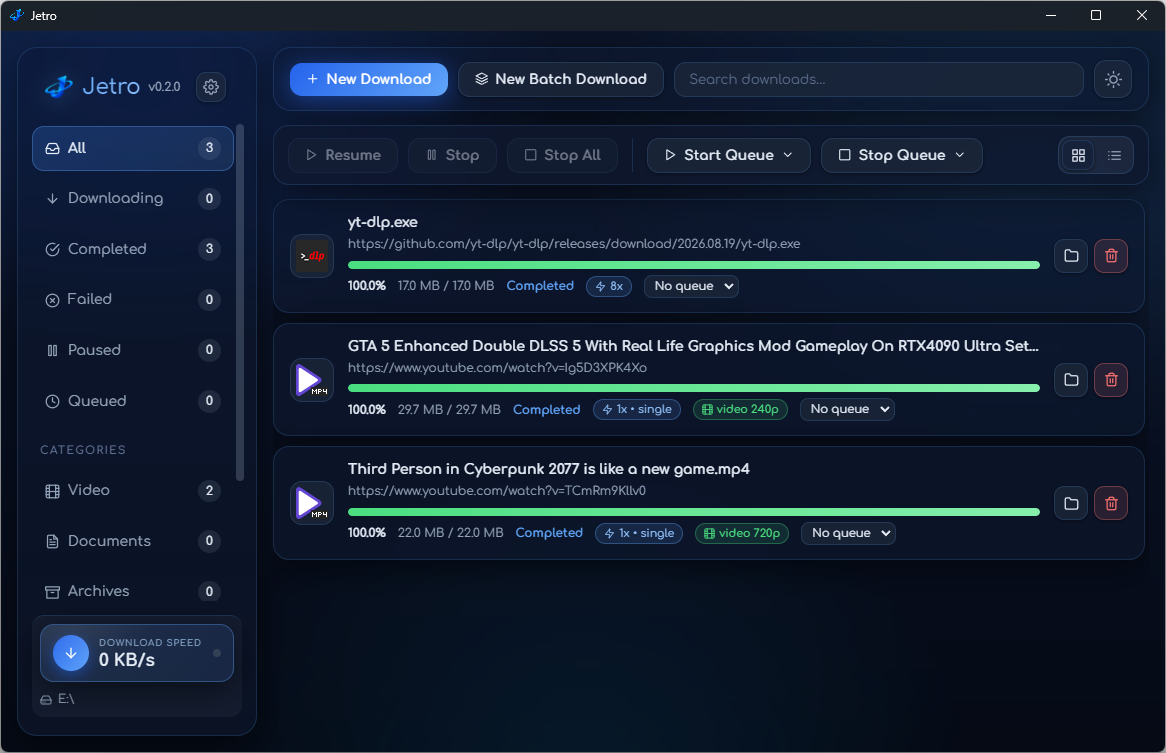
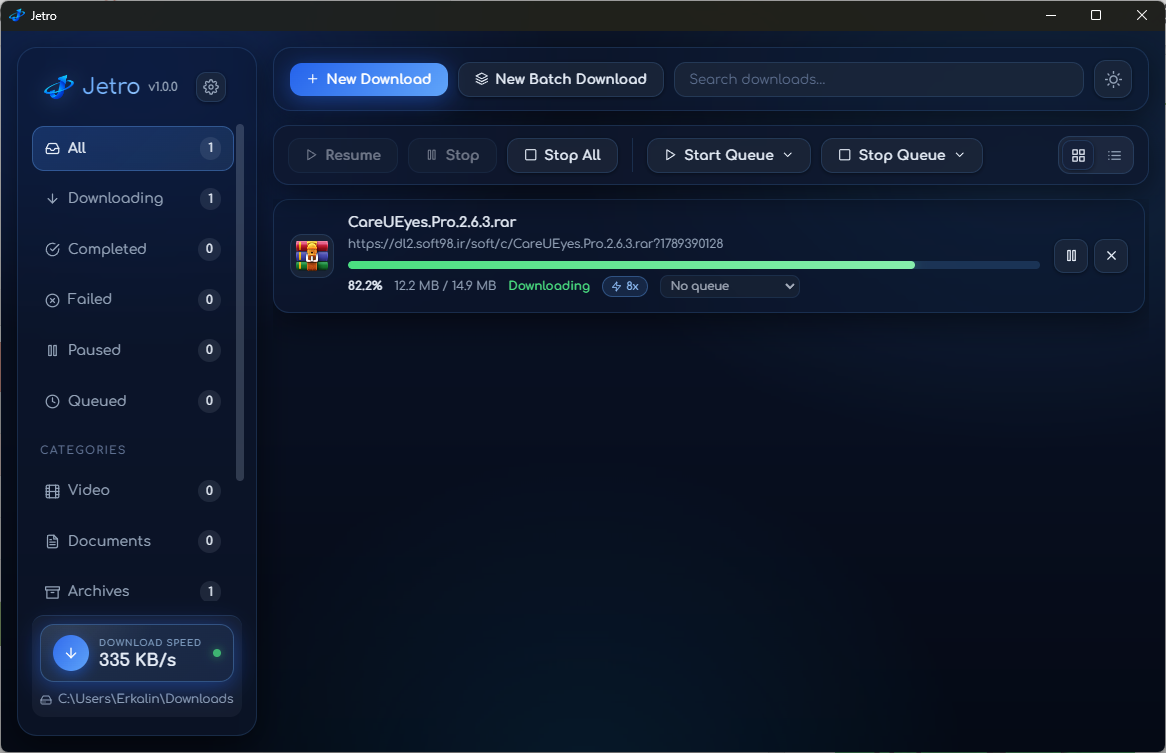
Update preview screenshot and changelog

diff --git a/CHANGELOG.md b/CHANGELOG.md
@@ -1,56 +1,79 @@
-# Changelog
+# Jetro v0.2.0 → v1.0.0 — what changed
 
-All notable changes to Jetro are documented here. This project follows
-[Semantic Versioning](https://semver.org/).
+Compared `jetro-0.2/` with `jetro/` (package version `0.2.0` → `1.0.0`).
+This is a human summary, not an auto-generated diff dump.
 
-## [1.0.0] — 2026-09-14
+## TL;DR
 
-First stable release. Portable Windows app (`Jetro 1.0.0.exe`, no install)
-with bundled `yt-dlp` + `ffmpeg`/`ffprobe` + `quickjs` — no separate setup.
+- Full Persian support (language switcher + RTL + Iranyekan font).
+- New browser extension (Jetro Resolver) + `jetro://` protocol support in the app.
+- New "Details & speed" view per download (speed graph + per-connection progress + server info).
+- Download engine feels more stable: global speed limit, smoother speed/ETA.
+- Small but useful settings additions: Reset app, version check fix, proxy hint on video errors.
+- Big code cleanup under the hood (split up App.tsx / index.css).
 
-### Downloading
+---
 
-- Segmented multi-connection engine (1–32 parallel `Range` connections per file)
-- Global speed-limit presets + per-download connection choice
-- Auto-retry for failed downloads with exponential backoff
-- Batch downloads: up to 200 parts via `*` pattern with live preview and resolving
+## 1. Persian / فارسی support
 
-### Video & audio
+The biggest visible change.
 
-- Bundled `yt-dlp` + `ffmpeg` with `quickjs` for player challenges
-- Quality detection, mp4 picker (144p–8K), best-audio picker, English subtitles
-- Playlists (first 50 shown, each selection becomes its own download)
-- Cookie login via pasted `cookies.txt` or file from disk
+- You can now switch the whole UI between English and فارسی from Settings → App.
+- Choice is saved (`jetro-lang`) and applied before first paint, so no flash of wrong direction on startup.
+- Full RTL layout when Persian is active (`rtl.css`, `dir="rtl"` on `<html>`). URLs, file paths, speeds and sizes stay LTR on purpose so they don't get mangled.
+- Iranyekan font is now bundled in `src/fonts/` (woff2 + ttf) and loaded via `src/styles/fonts.css`.
+- All strings moved to `src/locale/en.ts` + `src/locale/fa.ts` with a `LanguageContext` provider. Same keys on both sides, so nothing shows up untranslated by accident.
 
-### Queues & scheduler
+## 2. Browser extension — Jetro Resolver (new `extension/` folder)
 
-- Download queues with shared concurrency limit
-- Per-queue 24-hour time windows (overnight supported) with run-on-schedule mode
-- Power action when a queue finishes (Sleep / Hibernate / Shutdown / Restart)
-  with 60-second countdown
+Didn't exist in v0.2.0 at all.
 
-### Appearance, language & system
+- New `extension/` folder: MV3 extension for Chrome / Edge / Brave / Opera / Vivaldi, plus Firefox compat.
+- Right-click any link / image / video / page → "Jetro Resolver" sends it to the app.
+- Toolbar popup to send the current page, plus a toggle for download capture.
+- Clicking a direct file link (zip, exe, pdf, …) goes straight to Jetro instead of the browser downloading it. Other browser-started downloads get cancelled and forwarded too (can be turned off).
+- Works over a new `jetro://add?url=...` protocol:
+  - `package.json` now declares `build.protocols` (`jetro` scheme).
+  - `electron/main.ts` registers it (`setAsDefaultProtocolClient`), handles cold start / second instance / macOS open-url, and forwards the URL to the UI via a new `external-url` event (`onExternalUrl`).
+  - The app opens New Download pre-filled and starts resolving.
+- Has its own README in `extension/README.md` with install + troubleshooting steps.
 
-- Full English / فارسی UI with RTL layout and bundled Iranyekan font
-- Light / Dark / System appearance with header toggle
-- System tray (ask / minimize / exit), single instance, update check
-- Per-download details: live/average/peak speed, speed graph, per-connection
-  progress, server host/IP + location
+## 3. Details & speed view
 
-### Browser extension (new)
+New per-download analytics dialog.
 
-- Jetro Resolver (Chromium MV3 + Firefox compat) in `extension/` —
-  see [`extension/README.md`](extension/README.md)
-- Right-click → Download with Jetro, direct file-link interception,
-  download capture, toolbar popup, `jetro://add?url=…` handoff
+- Click "Details & speed" on a download to see live speed, average/peak, ETA, retries, and a speed-over-time graph (`SpeedGraph.tsx`).
+- Per-connection progress bars via a new `dl:segments` IPC channel (`DownloadSegmentsInfo` in `global.d.ts` / `preload.ts`).
+- Shows server host / IP and a rough location (country + city, looked up once per IP and cached).
+- Speed history is tracked with `useSpeedHistory` + `speedHistoryStore`, so the graph has something to draw even after switching views.
 
-### Network & privacy
+## 4. Engine fixes (you'll feel these more than see them)
 
-- Proxy modes (direct / system / custom) with HTTP/HTTPS/SOCKS4/SOCKS5,
-  auth, and bypass list
+`electron/downloader.ts` + `electron/main.ts`:
 
-## Earlier releases
+- Speed limit is now actually global. Before it was roughly per-chunk; now all connections and all concurrent downloads share one token bucket, so the total stays near what you set. You can also change it live without restarting downloads (`setSpeedLimitBps`).
+- Speed readings are smoothed (`smoothSpeedBps`) — fast up, slow down — so the number and ETA don't jump around every 100ms.
+- UA string bumped to `Jetro/1.0.0`.
 
-- `v0.2.0` / `v0.1.0` — pre-release development builds.
+## 5. Settings & small UX stuff
 
-[1.0.0]: https://github.com/Erkalin/Jetro/releases/tag/v1.0.0
+- New "Reset app…" in Settings → Danger zone (`app:reset-all`). Stops everything and clears list / queues / settings / speed history. Files on disk are kept.
+- New `app:get-version` — version shown in the app comes from `package.json` instead of the Electron version, which was wrong before.
+- Video detect failures now tell you when it looks like a proxy/VPN issue (`proxyHint`), with a shortcut to proxy settings.
+- Download list now shows real Windows file icons (`OsFileIcon`, cached by extension) with a simple category icon fallback (`CategoryIcon`).
+
+## 6. Codebase reorganization (dev-only, no behavior change)
+
+- Old `src/App.tsx` (~193 KB) and `src/index.css` (~37 KB) were split up:
+  - `src/components/` (analytics, speed graph, file icons)
+  - `src/hooks/`, `src/lib/` (format, url, batch, schedule, theme, view prefs, …)
+  - `src/styles/` (one file per area, imported from `index.css`)
+  - `src/api/jetro.ts`, `src/types.ts`
+- Added `@/` import alias (`vite.config.ts` + `tsconfig.json`).
+- `index.html` now also restores language/dir before paint, same as it already did for theme.
+
+## What didn't change
+
+- Core feature set is the same: segmented engine (1–32 connections), batch `*` downloads, video/audio via yt-dlp + ffmpeg, queues + scheduler + power actions, tray, auto-update check, proxy modes.
+- Build / scripts / portable exe output are the same. Old README feature tables still apply.
+- `preview.png` is unchanged.
